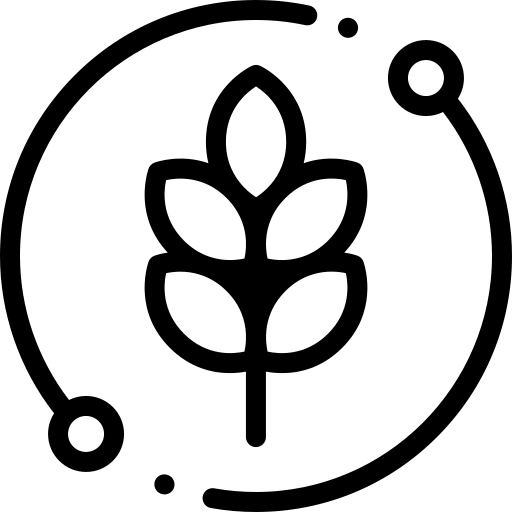
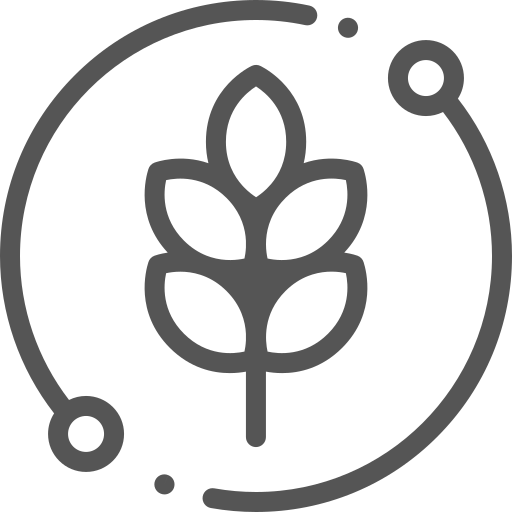
styling

diff --git a/src/components/Books/BookCard.js b/src/components/Books/BookCard.js
@@ -1,6 +1,6 @@
 import React, { Component } from 'react'
 import EditBookModal from './EditBookModal'
-import { Icon, Popup } from 'semantic-ui-react'
+import { Button } from 'semantic-ui-react'
 import PageDataManager from '../Pages/PageDataManager'
 import QuoteDataManager from '../Quotes/QuoteDataManager'
 import ConfirmBookDeleteModal from './ConfirmDeleteBookModal'
@@ -109,7 +109,7 @@ class BookCard extends Component {
 
 
             <div className="bookCard" onClick={() => this.toggleEditAndDelete()}>
-                <div className="card__content">
+
                     <div className={this.state.display}>
                             <ConfirmBookDeleteModal {...this.props}/>
                             <EditBookModal
@@ -118,21 +118,23 @@ class BookCard extends Component {
                             />
                         </div>
                         <div className="card__title"
-                            onClick={this.constructOrNavigateToFirstPage}
                         >
-                            
-                            <h4>{this.props.book.title}</h4>
-                            <div className="open__button">
-                                <Icon
-                                    name="chevron right"
-
-                                ></Icon>
+                            <h2>{this.props.book.title}</h2>
+                            <div>
+                                <Button
+                                    onClick={this.constructOrNavigateToFirstPage}
+                                    icon="chevron right"
+                                    size="mini"
+                                >
+                                </Button>
                             </div>
-
                         </div>
-                    <h6><em>{this.props.book.description}</em></h6>
-                </div>
+
+                    <div className="book__description">
+                        <h4><em>{this.props.book.description}</em></h4>
+                    </div>
             </div>
+
 
 
     );

diff --git a/src/components/Auth/Login.js b/src/components/Auth/Login.js
@@ -3,8 +3,8 @@ import UserDataManager from "./UserDataManager";
 import { Button, Image } from 'semantic-ui-react'
 import { Input } from 'reactstrap'
 import logo from './agronomy.png'
-
 import "./Login.css";
+
 
 class Login extends Component {
   state = {
@@ -38,6 +38,7 @@ class Login extends Component {
 
   componentDidMount() {
     // getAll users and  set in session storage
+
     UserDataManager.getAllUsers().then(users => {
       this.setState({
         users: users
@@ -45,23 +46,29 @@ class Login extends Component {
     });
   }
 
+
+
+
   render() {
     console.log(this.state.users);
+
     return (
       <React.Fragment>
+        <div className="login">
           <div className="login__heading">
             <Image className="logo" src={logo}/>
-            <h1>winnow</h1>
+            <h1 style={{color: 'rgb(85, 85, 85)'}} ><strong>winnow</strong></h1>
           </div>
-          <div>
-            <h6><em>Marcus Aurelius wrote that we should</em>
+          <div className="login__description--1">
+            <h4><em>Marcus Aurelius wrote that we should</em>
               <strong> winnow </strong><em>our thoughts, so that we always
               have something meaningful to think and
-              talk about.</em></h6>
-
-              <h6><em>Create a daily quote book to winnow the
+              talk about.</em></h4>
+          <div className="login__description--2">
+              <h4><em>Create a daily quote book to winnow the
               chaff of media noise, and collect a few
-              grains of wisdom.</em></h6>
+              grains of wisdom.</em></h4>
+          </div>
           </div>
             <div className="loginForm">
               <Input
@@ -88,6 +95,7 @@ class Login extends Component {
                 >sign in</Button>
               <h6>or</h6>
             </div>
+          </div>
       </React.Fragment>
     );
   }

diff --git a/src/components/Search/SearchResultCard.js b/src/components/Search/SearchResultCard.js
@@ -14,15 +14,21 @@ class SearchResultCard extends Component {
                 <Card className="card__container">
 
                     <CardBody >
-                        <h2>{this.props.searchResultObject.month} {this.props.searchResultObject.day}</h2>
-                        <h4>{this.props.searchResultObject.quoteText}</h4>
-                        <h6>{this.props.searchResultObject.quoteAuthor}</h6>
+                        <div className="searchResult__card__header">
+                            <h2>{this.props.searchResultObject.month} {this.props.searchResultObject.day}</h2>
+                            <Button
+                                as={Link}
+                                to={`/books/${this.props.searchResultObject.bookId}/${this.props.searchResultObject.pageId}/${this.props.searchResultObject.month}/${this.props.searchResultObject.day}`}
+                                icon="chevron right"
+                                size="mini"                           >
+                            </Button>
+                        </div>
+                        <h3>{this.props.searchResultObject.quoteText}</h3>
+                        <h5>{this.props.searchResultObject.quoteAuthor}</h5>
                         <div
                             className="goToPage"
                         >
-                            <Button
-                            as={Link} to={`/books/${this.props.searchResultObject.bookId}/${this.props.searchResultObject.pageId}/${this.props.searchResultObject.month}/${this.props.searchResultObject.day}`}
-                        >go</Button>
+
                         </div>
                     </CardBody>
                 </Card>

diff --git a/src/components/Quotes/RandomQuote.js b/src/components/Quotes/RandomQuote.js
@@ -5,6 +5,7 @@ import QuoteDataManager from './QuoteDataManager'
 import './Quotes.css'
 
 
+
 class RandomQuote extends Component {
     state = {
         quoteText: "",
@@ -31,9 +32,13 @@ class RandomQuote extends Component {
 
 
     componentDidMount () {
+        document.body.classList.add('bk2')
         this.refreshRandomQuote()
         }
 
+    componentWillUnmount () {
+        document.body.classList.remove('bk2')
+    }
 
     render() {
        return (
@@ -42,6 +47,7 @@ class RandomQuote extends Component {
                 <div className="randomQuote__button">
                         <Button
                             circular
+                            size="big"
                             icon="quote left"
                             onMouseDown={this.toggle}
                             onClick={() => {
@@ -52,10 +58,10 @@ class RandomQuote extends Component {
                         ></Button>
                 </div>
                 <div>
-                    <Fade in={this.state.fadeIn} tag='h4' timeout={600}>
+                    <Fade in={this.state.fadeIn} tag='h3' timeout={600}>
                         {this.state.quoteText}
                     </Fade>
-                    <Fade in={this.state.fadeIn} tag='p' timeout={600}>
+                    <Fade in={this.state.fadeIn} tag='h5' timeout={600}>
                         {this.state.quoteAuthor}
                     </Fade>
                 </div>

diff --git a/src/components/Books/Card.css b/src/components/Books/Card.css
@@ -4,7 +4,6 @@
     flex-direction: row;
     justify-content: space-between;
     text-align: center;
-
 }
 
 .bookCard {
@@ -18,7 +17,6 @@
     border-radius: .25rem;
     background-color: #f7f7f7;
 }
-
 
 
 .addCard {
@@ -60,14 +58,15 @@
     flex-direction: column;
     justify-content: left;
 
+
 }
 
 .dayInt__button {
     margin: 10px;
     min-width: 40px;
     min-height: 40px;
-
 }
+
 
 .card__body {
     display: flex;
@@ -90,9 +89,28 @@
     justify-content: center;
 }
 
+h2 {
+    margin: 10px;
+}
+
+h3 {
+    margin: 10px
+}
+
+.book__description {
+    margin: 15px;
+}
+
 .searchResult__card {
     margin: 15px 0 15px 15px;
 }
+
+.searchResult__card__header {
+    margin: 20px;
+    display: flex;
+    align-items: center;
+}
+
 
 .searchResult__content {
     display: flex;

diff --git a/src/components/Auth/RegisterModal.js b/src/components/Auth/RegisterModal.js
@@ -71,7 +71,7 @@ class RegisterModal extends React.Component {
                 const firstBookObject = {
                     userId: user.id,
                     title: "quotebook",
-                    description: "welcome to winnow. we've created a book for you with some quotes to inspire you each day. click to open, then begin adding, editing, and recording your thoughts. (also, feel free delete or edit this description, or create a new book from scratch.)",
+                    description: "we have created a quotebook for you, with inspiration for each day of the year.",
                     timestamp: new Date().toLocaleString(),
                     isBlank: false
                 }

diff --git a/src/index.css b/src/index.css
@@ -5,9 +5,18 @@ body {
     sans-serif;
   -webkit-font-smoothing: antialiased;
   -moz-osx-font-smoothing: grayscale;
-  background: url("https://www.publicdomainpictures.net/pictures/40000/nahled/white-paper-background.jpg") no-repeat center center fixed;
+  color: rgb(117, 109, 109) !important;
+  background: url("background.png") no-repeat center center fixed;
   background-size: cover;
   min-height: 100vh;
+  position: relative;
+}
+
+.bk2 {
+  background: #F0F2F3;
+  background-size: cover;
+  min-height: 100vh;
+  /* position: absolute; */
 }
 
 code {

diff --git a/src/components/Quotes/QuoteCard.js b/src/components/Quotes/QuoteCard.js
@@ -48,9 +48,9 @@ class QuoteCard extends Component {
                     <div
                         className="card__content"
                     >
-                        
-                        <h4>{this.props.pageQuote.quote.quoteText}</h4>
-                        <p>{this.props.pageQuote.quote.quoteAuthor}</p>
+
+                        <h3>{this.props.pageQuote.quote.quoteText}</h3>
+                        <h5>{this.props.pageQuote.quote.quoteAuthor}</h5>
                         {/* </Fade> */}
                     </div>
 

diff --git a/src/components/Search/Search.js b/src/components/Search/Search.js
@@ -54,7 +54,16 @@ class Search extends Component {
                             || filteredObject.month.toLowerCase().includes(this.state.searchInput.toLowerCase()))
                 this.setState({ searchResultObjects: searchResultObjects})
             })
-}
+    }
+
+    componentDidMount () {
+        document.body.classList.add('bk2')
+    }
+
+    componentWillUnmount () {
+        document.body.classList.remove('bk2')
+    }
+
     render() {
         return (
             <React.Fragment>

diff --git a/src/components/Auth/Login.css b/src/components/Auth/Login.css
@@ -1,3 +1,4 @@
+
 .loginForm {
     width: 200px;
     margin: 15px;
@@ -12,8 +13,12 @@
     text-align: center;
 }
 
-h6 {
+h4 {
     margin: 15px;
+}
+
+h6 {
+    margin: 10px 10px;
 }
 
 .registerbtn {
@@ -26,8 +31,17 @@ h6 {
     margin: 15px 0 15px 25px;
 }
 
+.login__description--1 {
+    max-width: 320px;
+}
+
+.login__description--2 {
+    max-width: 270px;
+}
+
+
 .logo {
-    width: 50px;
-    height: 50px;
+    min-width: 60px;
+    min-height: 60px;
     margin: 0 12px 0 0;
 }

diff --git a/public/index.html b/public/index.html
@@ -5,6 +5,7 @@
       href="https://fonts.googleapis.com/css?family=Quicksand&display=swap"
       rel="stylesheet"
     />
+
     <meta charset="utf-8" />
     <link rel="stylesheet" href="//cdn.jsdelivr.net/npm/semantic-ui@2.4.2/dist/semantic.min.css" />
     <link rel="shortcut icon" href="%PUBLIC_URL%/favicon.ico" />

diff --git a/src/components/Quotes/AddRandomQuoteModal.js b/src/components/Quotes/AddRandomQuoteModal.js
@@ -72,6 +72,7 @@ class AddRandomQuoteModal extends Component {
                             }}
                             circular
                             icon="quote left"
+                            size="big"
                         >
                         </Button>
                     </div>
